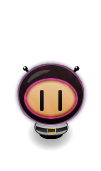
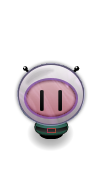
Merge remote-tracking branch 'origin/master'
# Conflicts:
#	Bomberman 2/src/Personnage.java

Changed region(s): [[0.1485, 0.3509, 0.8614, 0.7895]]

diff --git a/Bomberman 2/src/Ecran_Titre.java b/Bomberman 2/src/Ecran_Titre.java
@@ -198,7 +198,7 @@ public class Ecran_Titre {
 		
 		if(choix_skins_cursor_player_1 == 1)
 		{
-			Joueur1.setSkin("Images/Skin/Skin 404.png");
+			Joueur1.setSkin("Images/Skin/Bomberman Perso 2.png");
 		}
 		
 		if(choix_skins_cursor_player_1 == 2)
@@ -209,12 +209,12 @@ public class Ecran_Titre {
 		/// Joueur 2 ///
 		if(choix_skins_cursor_player_2 == 0)
 		{
-			Joueur2.setSkin("Images/Skin/Bomberman Perso 2.png");
+			Joueur2.setSkin("Images/Skin/Bomberman Perso 3.png");
 		}
 		
 		if(choix_skins_cursor_player_2 == 1)
 		{
-			Joueur2.setSkin("Images/Skin/Skin 404.png");
+			Joueur2.setSkin("Images/Skin/Bomberman Perso 2.png");
 		}
 		
 		if(choix_skins_cursor_player_2 == 2)
